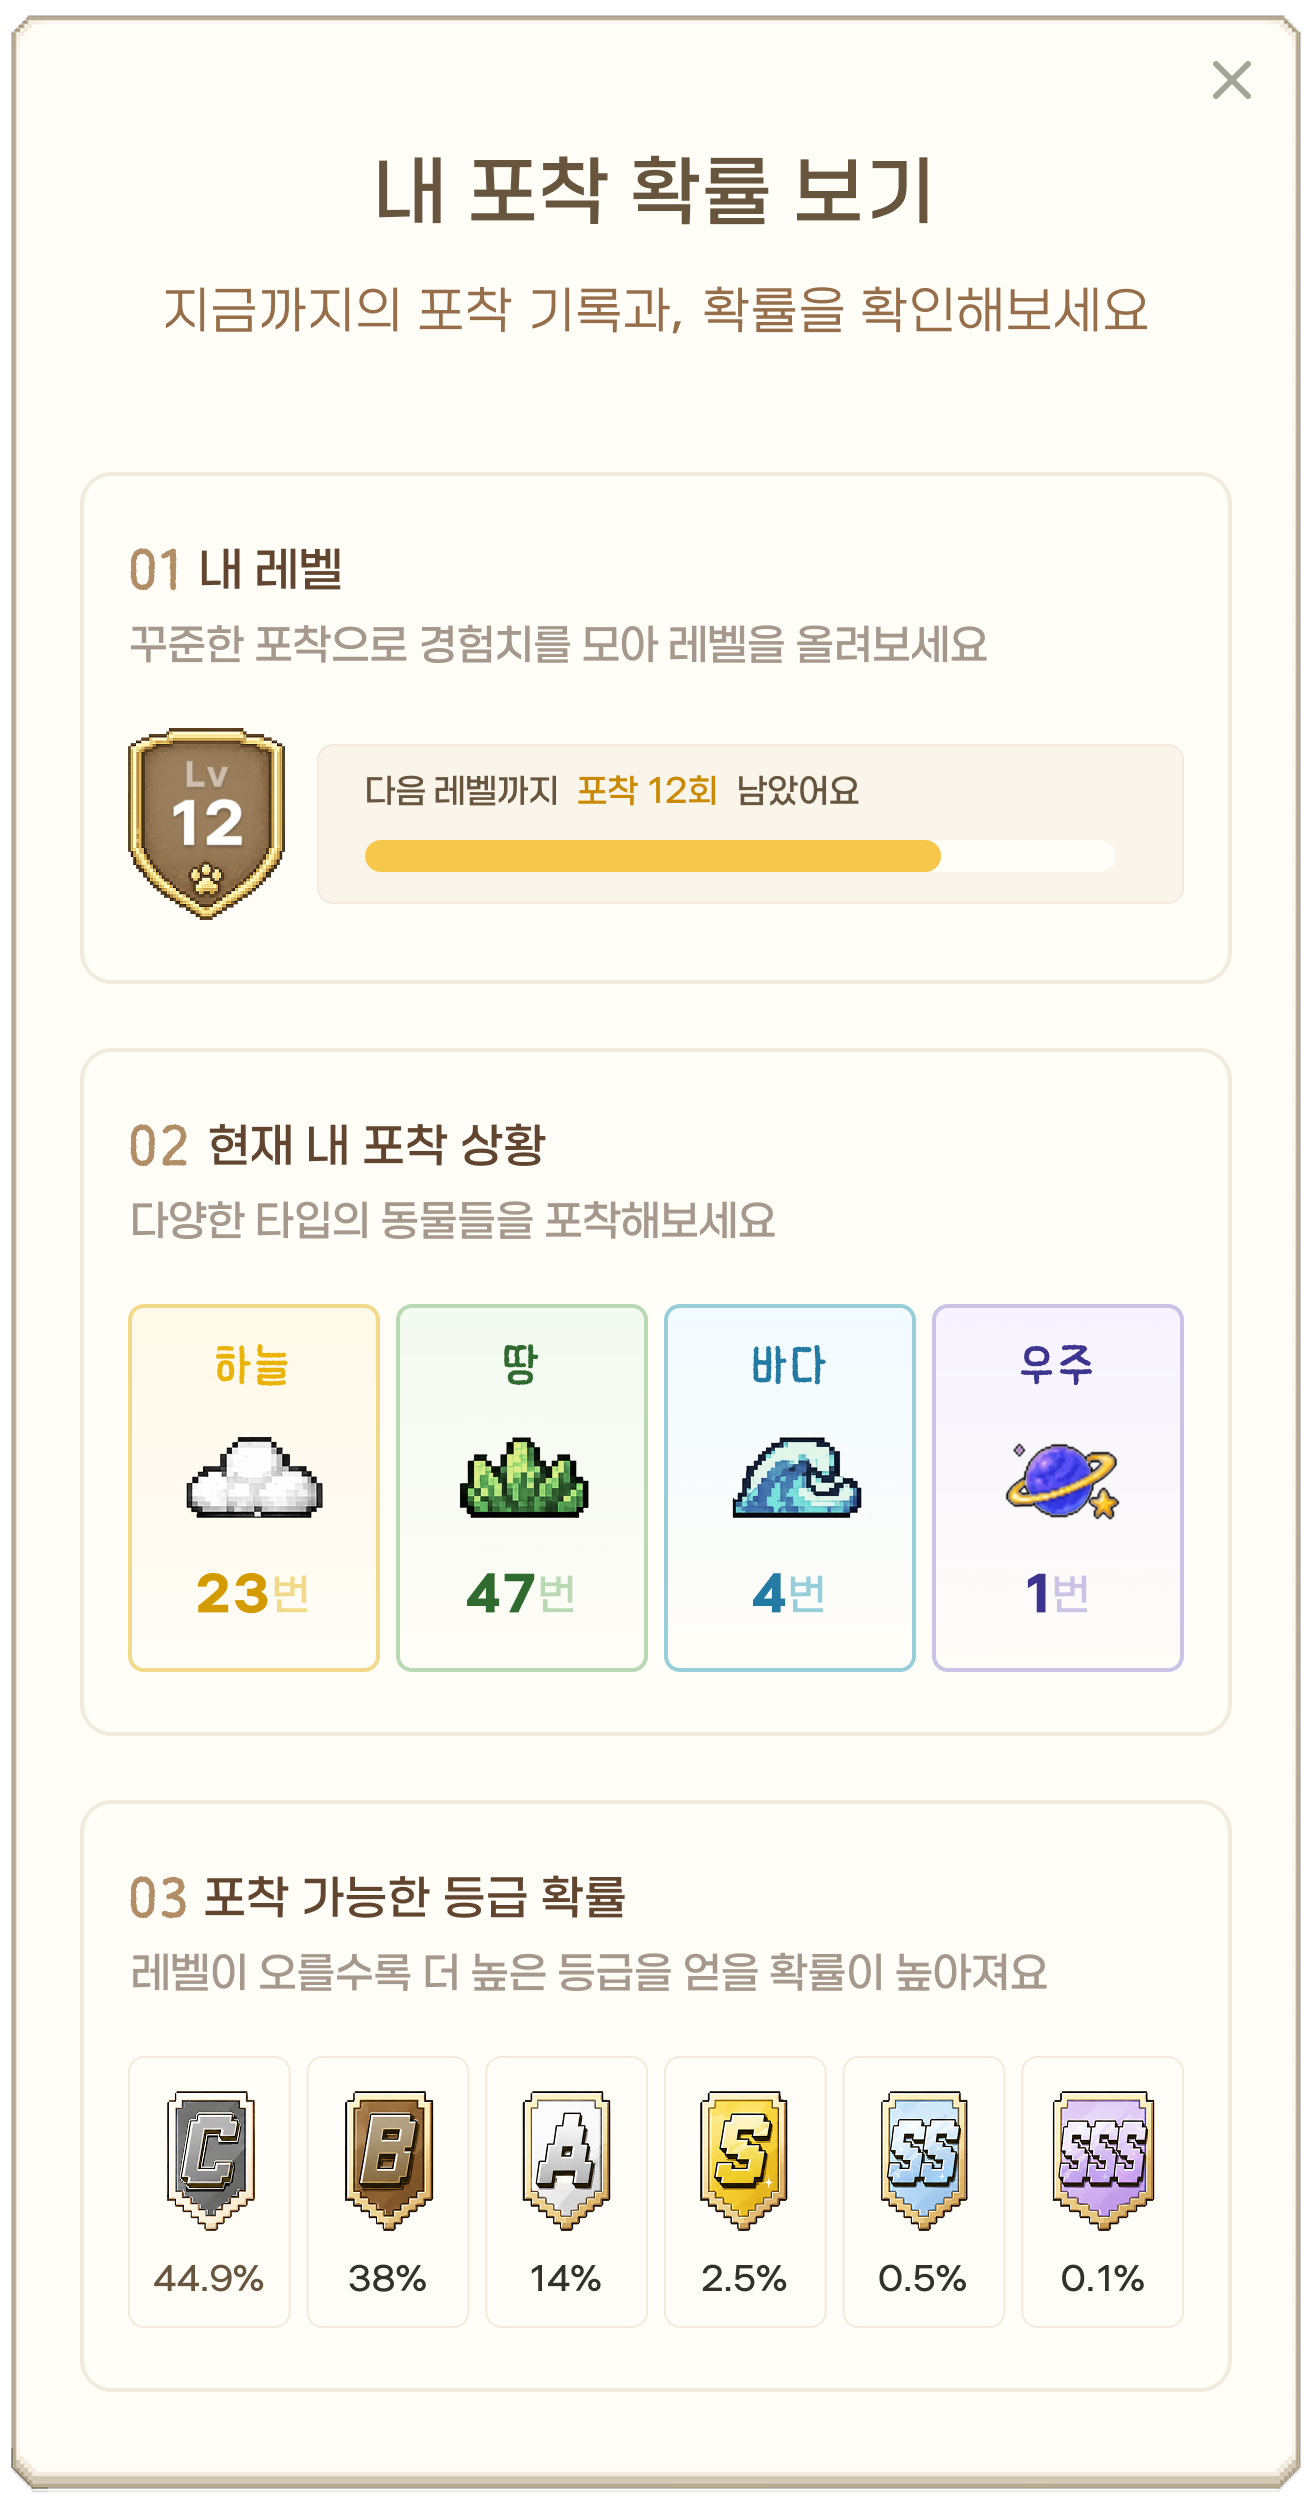
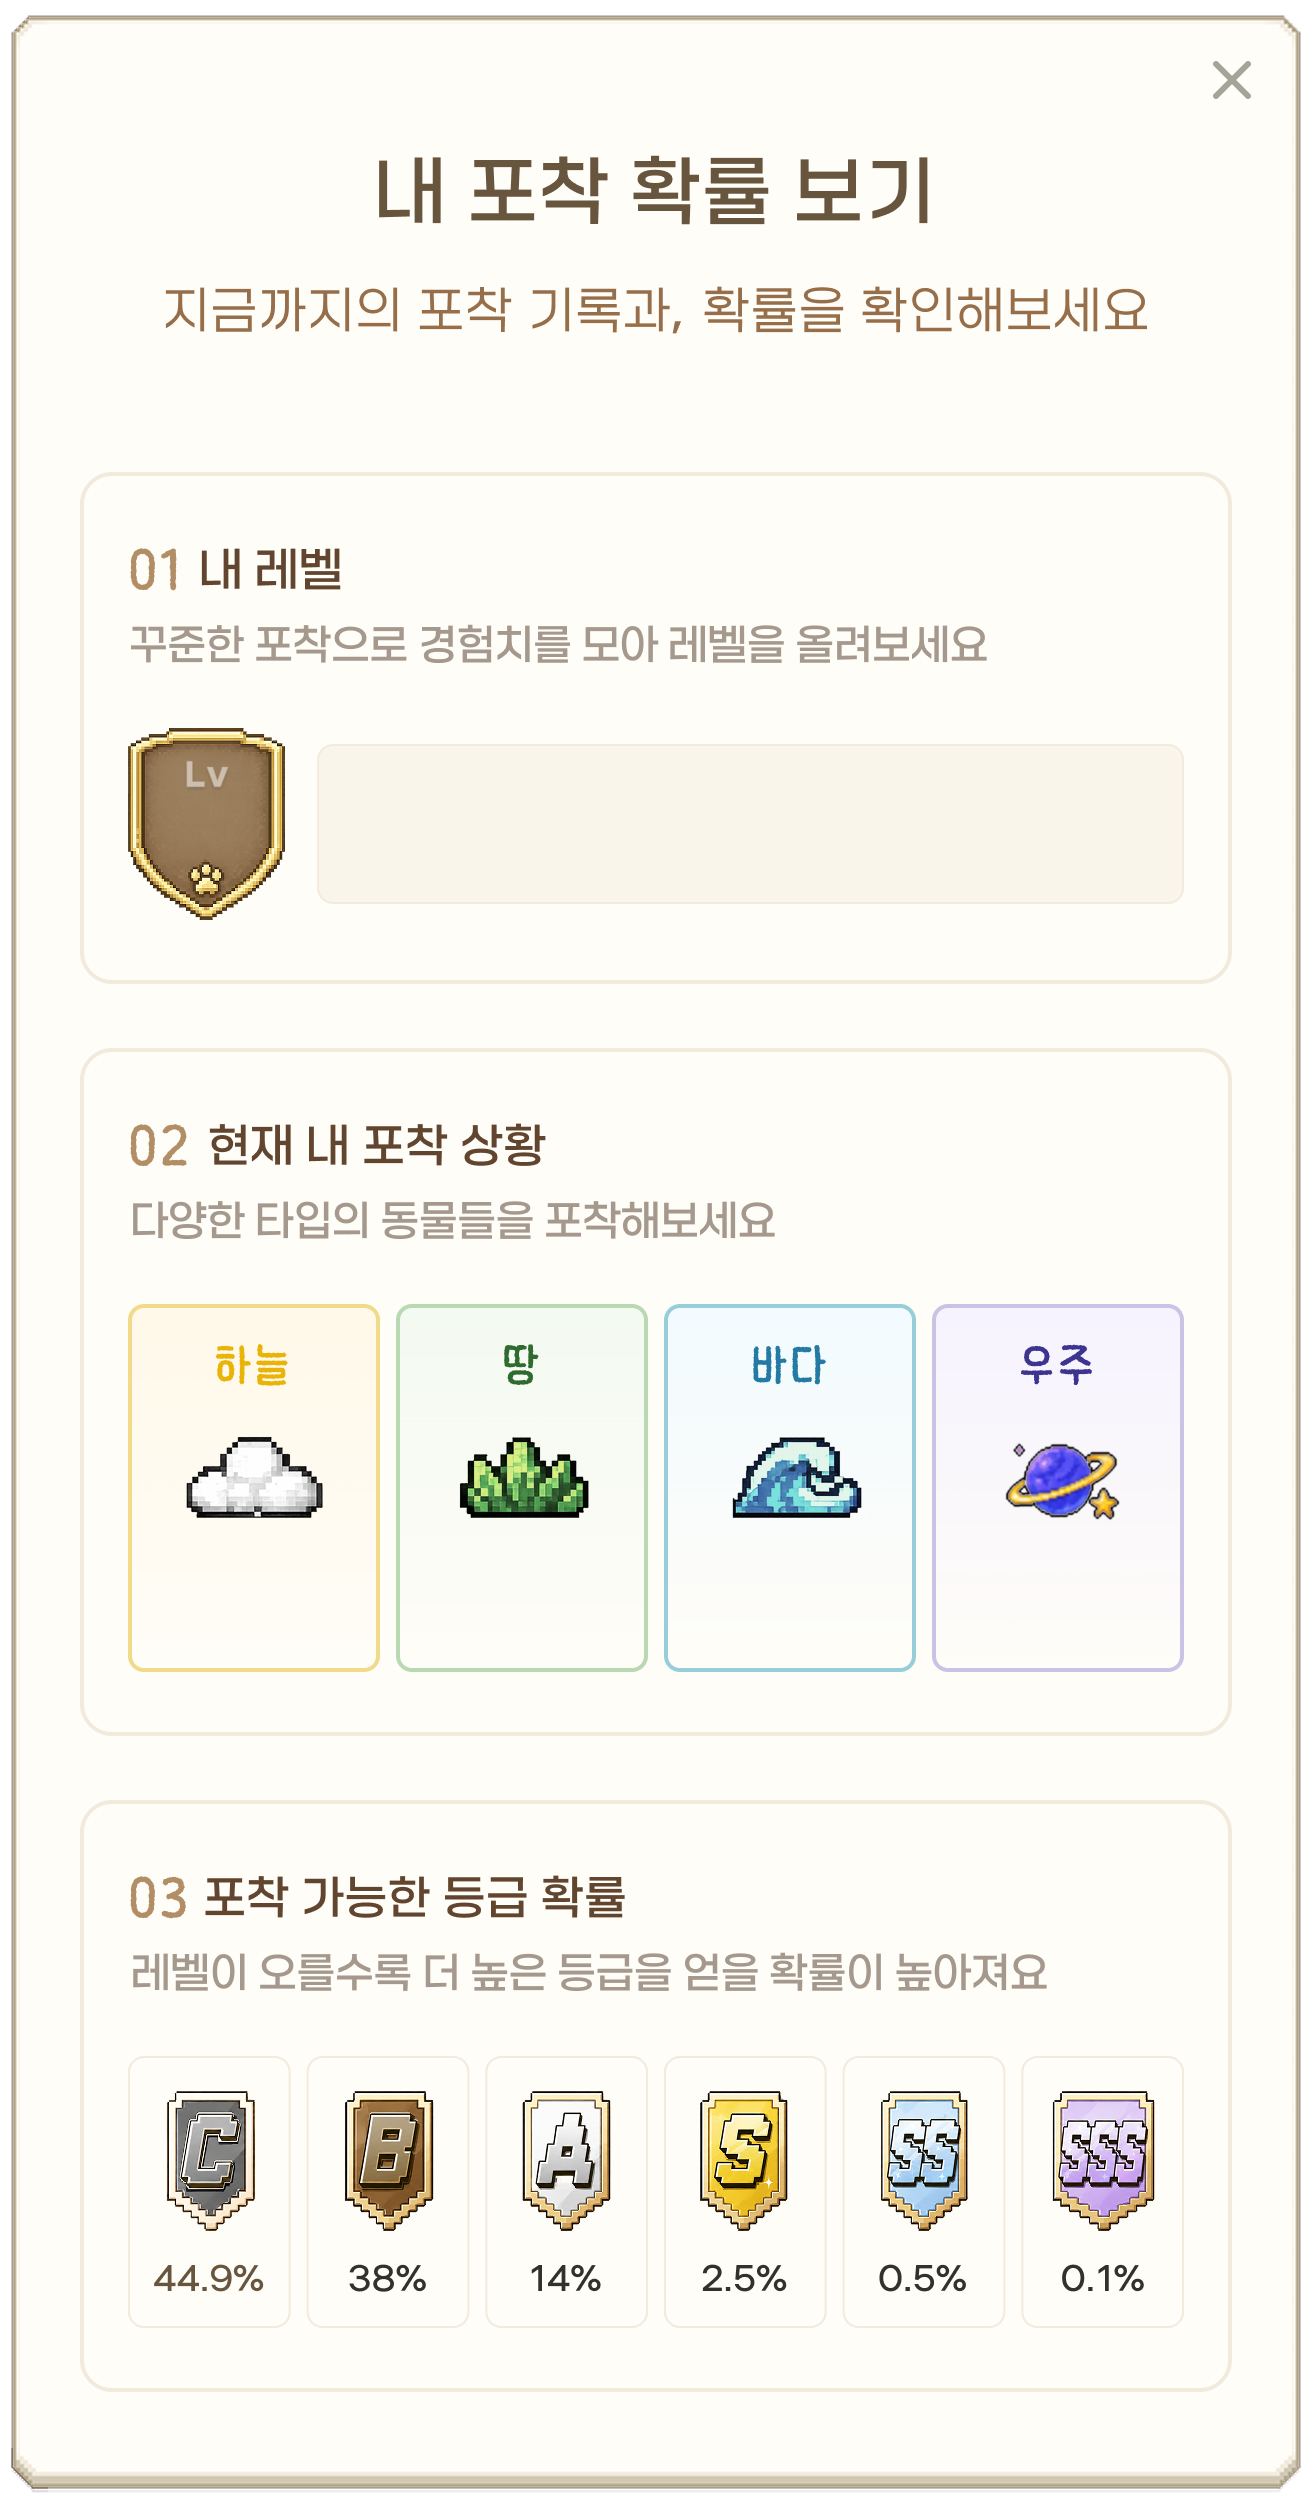
feat : 포착 확률 정보 모달 개선
- 신규 포착 확률 모달 이미지 적용
- 임시 레벨과 경험치 및 환경별 포착 횟수 표시
- 서버 연동을 고려한 동적 데이터 구조와 반응형 배치 적용

diff --git a/src/features/capture-photo/ui/CameraCaptureView.tsx b/src/features/capture-photo/ui/CameraCaptureView.tsx
@@ -39,6 +39,17 @@ const CAMERA_CARD_HORIZONTAL_MARGIN = 11;
 const CAMERA_CARD_BUTTON_GAP = 24;
 const BOTTOM_BUTTON_SIZE = 64;
 const MAX_CAPTURE_COUNT = 5;
+const HELP_MODAL_REFERENCE_WIDTH = 328;
+const HELP_MODAL_REFERENCE_HEIGHT = 626;
+const MOCK_USER_LEVEL = 1;
+const MOCK_REMAINING_CAPTURES = 12;
+const MOCK_LEVEL_PROGRESS = 0.77;
+const MOCK_CAPTURE_COUNTS = [
+  { color: '#E9B400', count: 23, label: '하늘' },
+  { color: '#2F7D35', count: 8, label: '땅' },
+  { color: '#2185A8', count: 15, label: '바다' },
+  { color: '#4A38A7', count: 3, label: '우주' },
+] as const;
 
 export function CameraCaptureView() {
   const { height: screenHeight, width: screenWidth } =
@@ -66,6 +77,14 @@ export function CameraCaptureView() {
     screenWidth - CAMERA_CARD_HORIZONTAL_MARGIN * 2,
     availableCameraCardHeight * CAMERA_CARD_ASPECT_RATIO,
   );
+  const helpModalScale = Math.min(
+    screenWidth / 411,
+    (screenHeight * 0.92) / HELP_MODAL_REFERENCE_HEIGHT,
+  );
+  const helpModalWidth =
+    HELP_MODAL_REFERENCE_WIDTH * helpModalScale;
+  const helpModalHeight =
+    HELP_MODAL_REFERENCE_HEIGHT * helpModalScale;
 
   useEffect(() => {
     const guideTimer = setInterval(() => {
@@ -454,18 +473,132 @@ export function CameraCaptureView() {
         visible={isHelpModalVisible}
       >
         <View style={styles.helpModalOverlay}>
-          <View style={styles.helpModal}>
+          <View
+            style={[
+              styles.helpModal,
+              {
+                width: helpModalWidth,
+                height: helpModalHeight,
+              },
+            ]}
+          >
             <Image
               accessibilityLabel="내 포착 확률 보기"
               resizeMode="contain"
               source={CAPTURE_PROBABILITY_MODAL_IMAGE}
-              style={styles.helpModalImage}
+              style={{
+                width: helpModalWidth,
+                height: helpModalHeight,
+              }}
             />
+            <Text
+              accessibilityLabel={`현재 레벨 ${MOCK_USER_LEVEL}`}
+              style={[
+                styles.helpModalLevel,
+                {
+                  top: 199 * helpModalScale,
+                  left: 32 * helpModalScale,
+                  width: 39 * helpModalScale,
+                  fontSize: 13 * helpModalScale,
+                },
+              ]}
+            >
+              {MOCK_USER_LEVEL}
+            </Text>
+            <Text
+              accessibilityLabel={`다음 레벨까지 포착 ${MOCK_REMAINING_CAPTURES}회 남았어요`}
+              style={[
+                styles.helpModalProgressMessage,
+                {
+                  top: 191 * helpModalScale,
+                  left: 90 * helpModalScale,
+                  width: 192.75 * helpModalScale,
+                  fontSize: 8 * helpModalScale,
+                  lineHeight: 11 * helpModalScale,
+                },
+              ]}
+            >
+              다음 레벨까지{' '}
+              <Text style={styles.helpModalProgressHighlight}>
+                포착 {MOCK_REMAINING_CAPTURES}회
+              </Text>{' '}
+              남았어요
+            </Text>
+            <View
+              accessibilityLabel={`현재 경험치 ${Math.round(MOCK_LEVEL_PROGRESS * 100)}퍼센트`}
+              style={[
+                styles.helpModalProgressTrack,
+                {
+                  top: 211 * helpModalScale,
+                  left: 90 * helpModalScale,
+                  width: 192.75 * helpModalScale,
+                  height: 8 * helpModalScale,
+                  borderRadius: 4 * helpModalScale,
+                },
+              ]}
+            >
+              <View
+                style={[
+                  styles.helpModalProgressFill,
+                  {
+                    width: `${MOCK_LEVEL_PROGRESS * 100}%`,
+                    borderRadius: 4 * helpModalScale,
+                  },
+                ]}
+              />
+            </View>
+            <View
+              style={[
+                styles.helpModalCaptureCounts,
+                {
+                  top: 394 * helpModalScale,
+                  left: 31 * helpModalScale,
+                  width: 265 * helpModalScale,
+                  height: 18 * helpModalScale,
+                },
+              ]}
+            >
+              {MOCK_CAPTURE_COUNTS.map(
+                ({ color, count, label }) => (
+                  <Text
+                    accessibilityLabel={`${label} 타입 ${count}번 포착`}
+                    key={label}
+                    style={[
+                      styles.helpModalCaptureCount,
+                      {
+                        color,
+                        width: 66.25 * helpModalScale,
+                        fontSize: 14 * helpModalScale,
+                        lineHeight: 17 * helpModalScale,
+                      },
+                    ]}
+                  >
+                    {count}
+                    <Text
+                      style={[
+                        styles.helpModalCaptureCountUnit,
+                        { fontSize: 9 * helpModalScale },
+                      ]}
+                    >
+                      번
+                    </Text>
+                  </Text>
+                ),
+              )}
+            </View>
             <Pressable
               accessibilityLabel="포착 확률 안내 닫기"
               accessibilityRole="button"
               onPress={() => setIsHelpModalVisible(false)}
-              style={styles.helpModalCloseButton}
+              style={[
+                styles.helpModalCloseButton,
+                {
+                  top: 8 * helpModalScale,
+                  right: 8 * helpModalScale,
+                  width: 40 * helpModalScale,
+                  height: 40 * helpModalScale,
+                },
+              ]}
             />
           </View>
         </View>
@@ -718,20 +851,52 @@ const styles = StyleSheet.create({
     justifyContent: 'center',
     backgroundColor: 'rgba(31, 29, 27, 0.68)',
   },
-  helpModal: {
-    width: 328,
-    height: 626,
+  helpModal: {},
+  helpModalLevel: {
+    position: 'absolute',
+    color: '#FFF4DD',
+    fontFamily: 'EliceDXNeolli-Bold',
+    includeFontPadding: false,
+    textAlign: 'center',
+    textAlignVertical: 'center',
   },
-  helpModalImage: {
-    width: 328,
-    height: 626,
+  helpModalProgressMessage: {
+    position: 'absolute',
+    color: '#6D5A44',
+    fontFamily: 'EliceDXNeolli-Medium',
+    includeFontPadding: false,
+    textAlign: 'left',
+    textAlignVertical: 'center',
+  },
+  helpModalProgressHighlight: {
+    color: '#F1B900',
+    fontFamily: 'EliceDXNeolli-Bold',
+  },
+  helpModalProgressTrack: {
+    position: 'absolute',
+    overflow: 'hidden',
+    backgroundColor: '#FFFDF8',
+  },
+  helpModalProgressFill: {
+    height: '100%',
+    backgroundColor: '#F9CA42',
+  },
+  helpModalCaptureCounts: {
+    position: 'absolute',
+    flexDirection: 'row',
+    alignItems: 'center',
+  },
+  helpModalCaptureCount: {
+    fontFamily: 'EliceDXNeolli-Bold',
+    includeFontPadding: false,
+    textAlign: 'center',
+    textAlignVertical: 'center',
+  },
+  helpModalCaptureCountUnit: {
+    fontFamily: 'EliceDXNeolli-Bold',
   },
   helpModalCloseButton: {
     position: 'absolute',
-    top: 8,
-    right: 8,
-    width: 40,
-    height: 40,
   },
   permissionScreen: {
     flex: 1,
